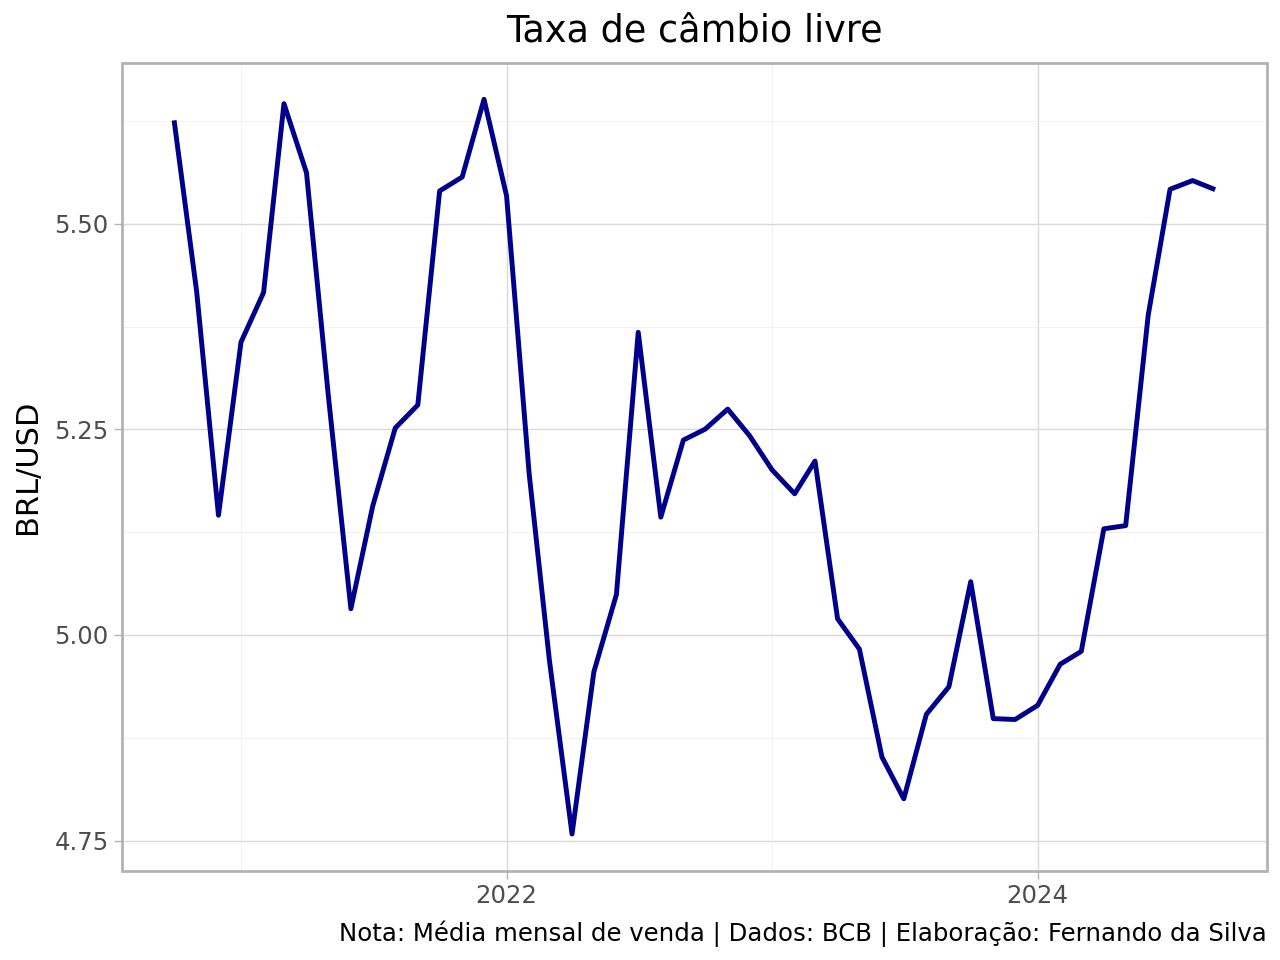
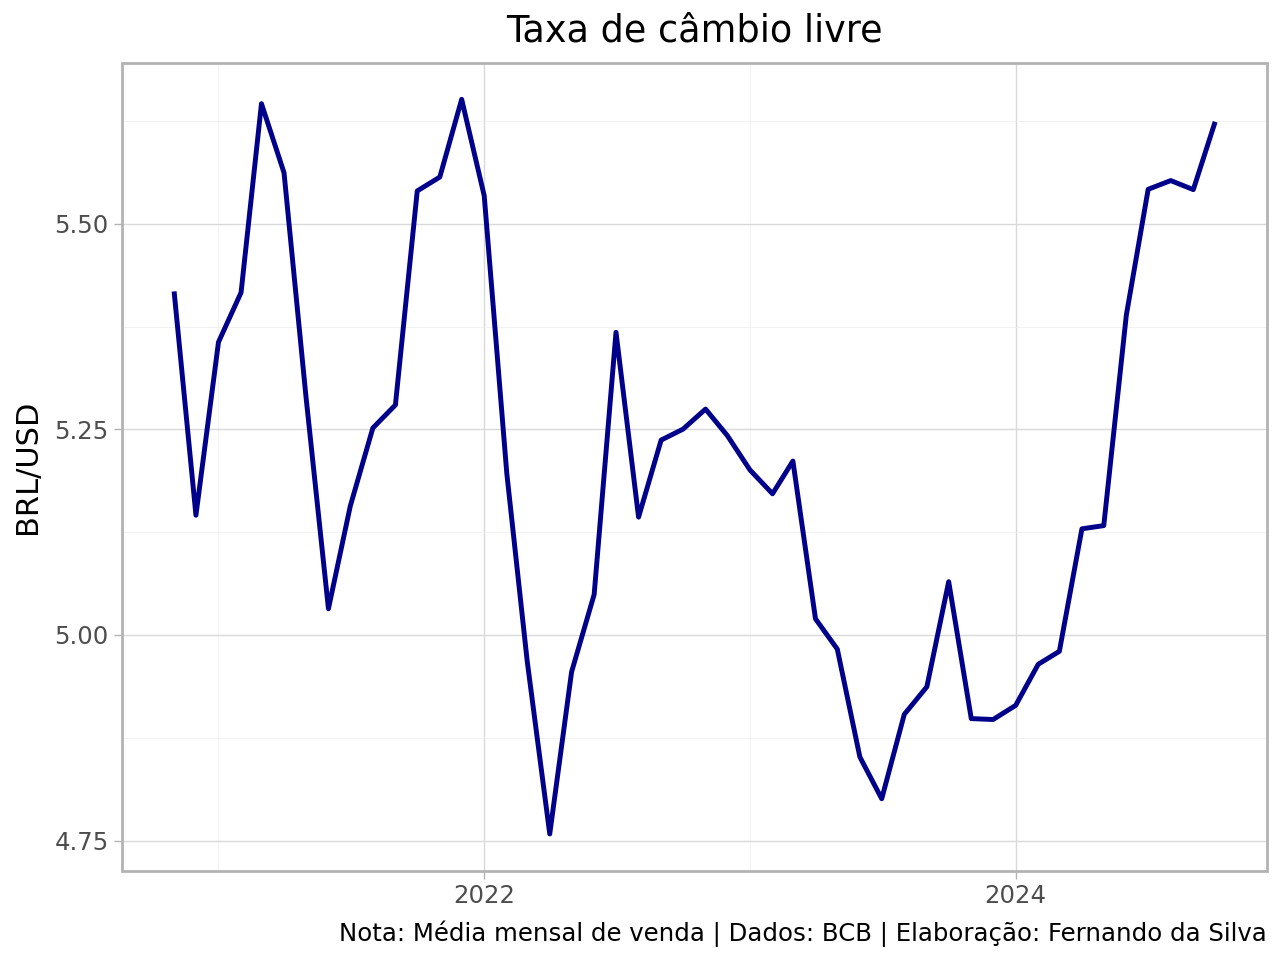
Deploy de aplicações

diff --git a/aplicacao/relatorio/relatorio.html b/aplicacao/relatorio/relatorio.html
@@ -110,7 +110,7 @@ pre > code.sourceCode > span > a:first-child::before { text-decoration: underlin
 <section id="bibliotecas" class="level2">
 <h2 class="anchored" data-anchor-id="bibliotecas">Bibliotecas</h2>
 <p>Primeiro é necessário importar as bibliotecas de Python (e instalar caso não estejam instalados ainda) para usar as funções úteis de coleta, tratamento e visualização de dados:</p>
-<div id="62775522" class="cell" data-execution_count="1">
+<div id="ef9ca2ec" class="cell" data-execution_count="1">
 <div class="sourceCode cell-code" id="cb1"><pre class="sourceCode python code-with-copy"><code class="sourceCode python"><span id="cb1-1"><a href="#cb1-1" aria-hidden="true" tabindex="-1"></a><span class="co"># Importar bibliotecas</span></span>
 <span id="cb1-2"><a href="#cb1-2" aria-hidden="true" tabindex="-1"></a><span class="im">from</span> bcb <span class="im">import</span> sgs</span>
 <span id="cb1-3"><a href="#cb1-3" aria-hidden="true" tabindex="-1"></a><span class="im">import</span> pandas <span class="im">as</span> pd</span>
@@ -120,7 +120,7 @@ pre > code.sourceCode > span > a:first-child::before { text-decoration: underlin
 <section id="dados" class="level2">
 <h2 class="anchored" data-anchor-id="dados">Dados</h2>
 <p>Em seguida é necessário identificar o código da série temporal desejada no sistema SGS/BCB e utilizar este código para obter os dados com a bibliotecas <code>python-bcb</code>:</p>
-<div id="19d7b7e8" class="cell" data-execution_count="2">
+<div id="3dc56ff1" class="cell" data-execution_count="2">
 <div class="sourceCode cell-code" id="cb2"><pre class="sourceCode python code-with-copy"><code class="sourceCode python"><span id="cb2-1"><a href="#cb2-1" aria-hidden="true" tabindex="-1"></a><span class="co"># Coleta de dados</span></span>
 <span id="cb2-2"><a href="#cb2-2" aria-hidden="true" tabindex="-1"></a>dados <span class="op">=</span> sgs.get(</span>
 <span id="cb2-3"><a href="#cb2-3" aria-hidden="true" tabindex="-1"></a>    codes <span class="op">=</span> {<span class="st">"cambio"</span>: <span class="dv">3698</span>},</span>
@@ -128,7 +128,7 @@ pre > code.sourceCode > span > a:first-child::before { text-decoration: underlin
 <span id="cb2-5"><a href="#cb2-5" aria-hidden="true" tabindex="-1"></a>    )</span></code><button title="Copy to Clipboard" class="code-copy-button"><i class="bi"></i></button></pre></div>
 </div>
 <p>Os dados brutos obtidos no SGS/BCB são exibidos abaixo:</p>
-<div id="e57aa861" class="cell" data-execution_count="3">
+<div id="162cf260" class="cell" data-execution_count="3">
 <div class="sourceCode cell-code" id="cb3"><pre class="sourceCode python code-with-copy"><code class="sourceCode python"><span id="cb3-1"><a href="#cb3-1" aria-hidden="true" tabindex="-1"></a>dados.tail()</span></code><button title="Copy to Clipboard" class="code-copy-button"><i class="bi"></i></button></pre></div>
 <div class="cell-output cell-output-display" data-execution_count="3">
 <div>
@@ -147,24 +147,24 @@ pre > code.sourceCode > span > a:first-child::before { text-decoration: underlin
 </thead>
 <tbody>
 <tr class="odd">
-<td data-quarto-table-cell-role="th">2024-05-01</td>
-<td>5.1330</td>
-</tr>
-<tr class="even">
 <td data-quarto-table-cell-role="th">2024-06-01</td>
 <td>5.3890</td>
 </tr>
-<tr class="odd">
+<tr class="even">
 <td data-quarto-table-cell-role="th">2024-07-01</td>
 <td>5.5420</td>
 </tr>
-<tr class="even">
+<tr class="odd">
 <td data-quarto-table-cell-role="th">2024-08-01</td>
 <td>5.5526</td>
 </tr>
-<tr class="odd">
+<tr class="even">
 <td data-quarto-table-cell-role="th">2024-09-01</td>
 <td>5.5416</td>
+</tr>
+<tr class="odd">
+<td data-quarto-table-cell-role="th">2024-10-01</td>
+<td>5.6241</td>
 </tr>
 </tbody>
 </table>
@@ -173,14 +173,14 @@ pre > code.sourceCode > span > a:first-child::before { text-decoration: underlin
 </div>
 </div>
 <p>Abaixo criamos uma colunna adicional com a informação do índice da tabela:</p>
-<div id="7985f876" class="cell" data-execution_count="4">
+<div id="c661c3d9" class="cell" data-execution_count="4">
 <div class="sourceCode cell-code" id="cb4"><pre class="sourceCode python code-with-copy"><code class="sourceCode python"><span id="cb4-1"><a href="#cb4-1" aria-hidden="true" tabindex="-1"></a>dados <span class="op">=</span> dados.assign(data <span class="op">=</span> dados.index)</span></code><button title="Copy to Clipboard" class="code-copy-button"><i class="bi"></i></button></pre></div>
 </div>
 </section>
 <section id="visualização-de-dados" class="level2">
 <h2 class="anchored" data-anchor-id="visualização-de-dados">Visualização de Dados</h2>
 <p>Por fim, pode ser utilizado um pacote de visualização de dados como o <code>plotnine</code> para gerar um gráfico de linha com a série da taxa de câmbio:</p>
-<div id="f2b3bda4" class="cell" data-execution_count="5">
+<div id="8d063fd5" class="cell" data-execution_count="5">
 <div class="sourceCode cell-code" id="cb5"><pre class="sourceCode python code-with-copy"><code class="sourceCode python"><span id="cb5-1"><a href="#cb5-1" aria-hidden="true" tabindex="-1"></a><span class="co"># Gráfico de linha</span></span>
 <span id="cb5-2"><a href="#cb5-2" aria-hidden="true" tabindex="-1"></a><span class="bu">print</span>((p9.ggplot(data <span class="op">=</span> dados) <span class="op">+</span></span>
 <span id="cb5-3"><a href="#cb5-3" aria-hidden="true" tabindex="-1"></a>  p9.aes(x <span class="op">=</span> <span class="st">"data"</span>, y <span class="op">=</span> <span class="st">"cambio"</span>) <span class="op">+</span></span>
@@ -194,7 +194,7 @@ pre > code.sourceCode > span > a:first-child::before { text-decoration: underlin
 <span id="cb5-11"><a href="#cb5-11" aria-hidden="true" tabindex="-1"></a>    ) <span class="op">+</span></span>
 <span id="cb5-12"><a href="#cb5-12" aria-hidden="true" tabindex="-1"></a>  p9.theme_light()))</span></code><button title="Copy to Clipboard" class="code-copy-button"><i class="bi"></i></button></pre></div>
 <div class="cell-output cell-output-stderr">
-<pre><code>/tmp/ipykernel_1969/4291321332.py:2: FutureWarning: Using print(plot) to draw and show the plot figure is deprecated and will be removed in a future version. Use plot.show().</code></pre>
+<pre><code>/tmp/ipykernel_1952/4291321332.py:2: FutureWarning: Using print(plot) to draw and show the plot figure is deprecated and will be removed in a future version. Use plot.show().</code></pre>
 </div>
 <div class="cell-output cell-output-display">
 <div>
